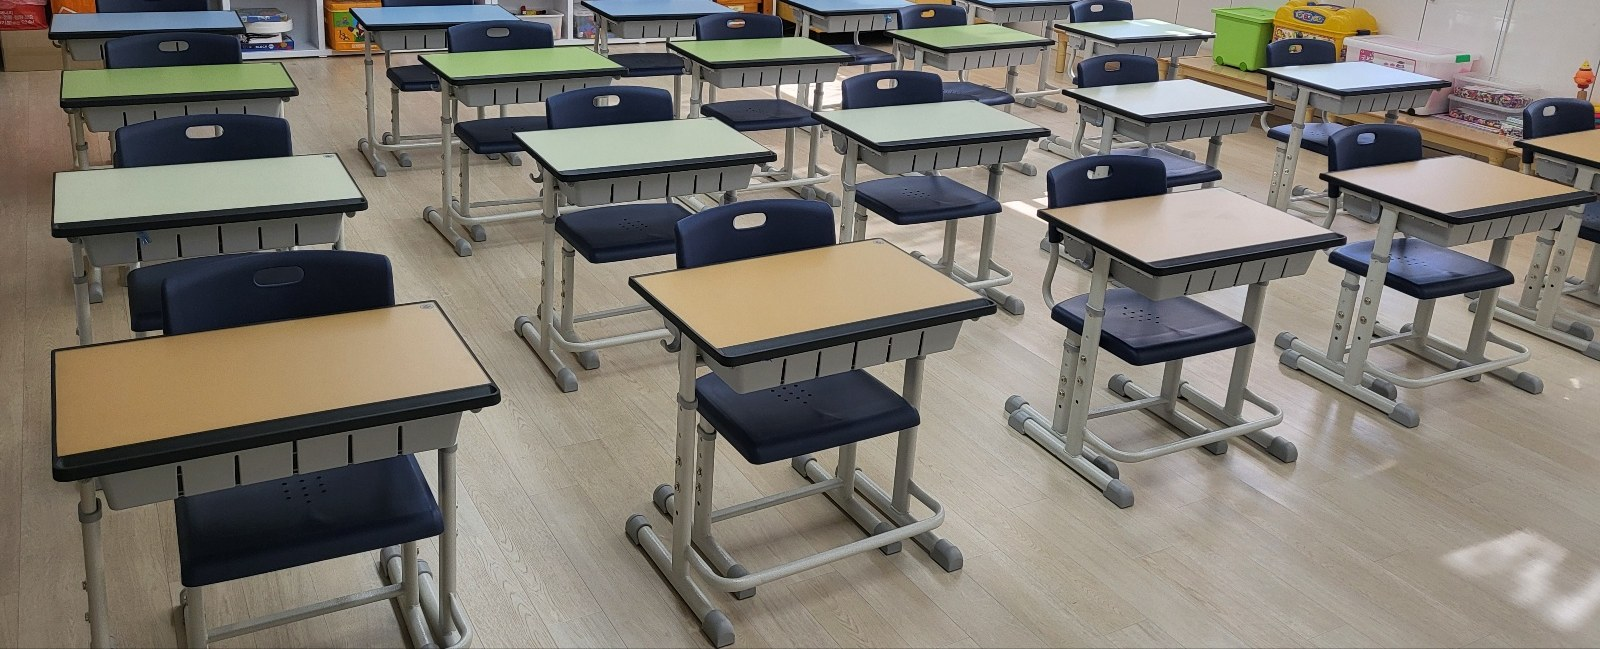
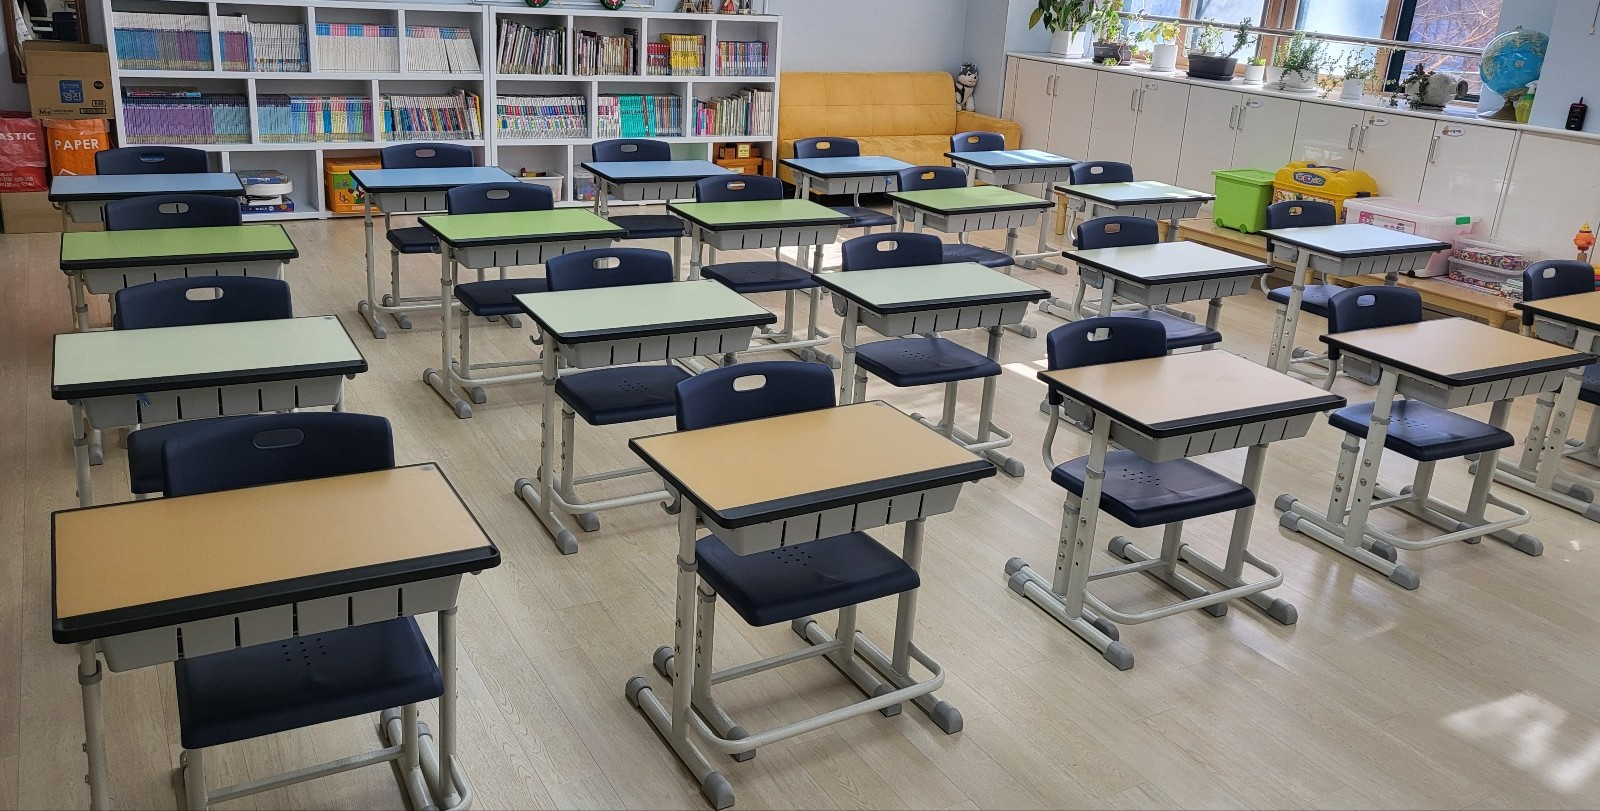
Adjust image cropping to better preserve furniture in photos
Update image processing logic and re-crop specific school photos to minimize the removal of desks and chairs.

Replit-Commit-Author: Agent
Replit-Commit-Session-Id: 2230acee-901f-43be-8e18-e6e3e114b569
Replit-Commit-Checkpoint-Type: full_checkpoint
Replit-Commit-Event-Id: 2802747d-9f16-40b5-84cb-d7ff8b064079
Replit-Commit-Screenshot-Url: https://storage.googleapis.com/screenshot-production-us-central1/20c2e994-f5b7-4618-9682-b5a987bddc04/2230acee-901f-43be-8e18-e6e3e114b569/VbxcwqJ
Replit-Helium-Checkpoint-Created: true

diff --git a/artifacts/api-server/src/routes/deliveryCases.ts b/artifacts/api-server/src/routes/deliveryCases.ts
@@ -17,7 +17,7 @@ const upload = multer({ storage, limits: { fileSize: 20 * 1024 * 1024 } });
 async function cropAndSave(buffer: Buffer, filename: string): Promise<string> {
   const meta = await sharp(buffer).metadata();
   const h = meta.height ?? 0;
-  const cropTop = Math.floor(h * 0.30);
+  const cropTop = Math.floor(h * 0.12);
   const cropHeight = h - cropTop;
   const outPath = path.join(uploadDir, filename);
   await sharp(buffer)
